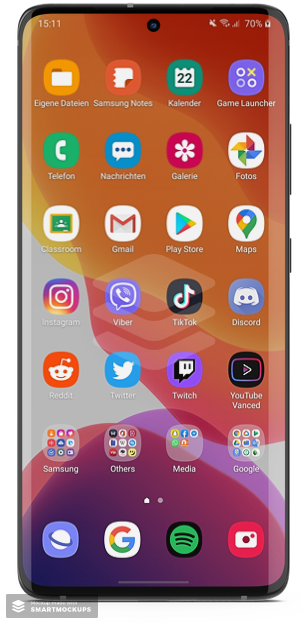
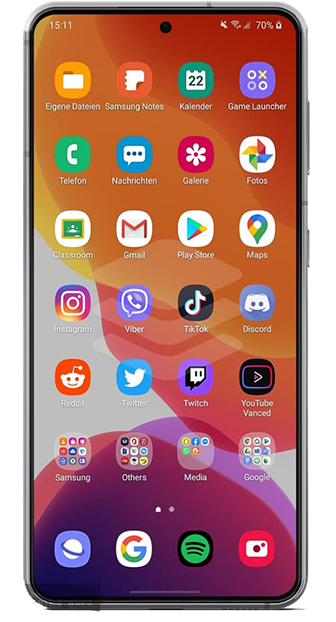
update

diff --git a/index.html b/index.html
@@ -87,7 +87,7 @@
                 <img src="./images/Iphone.png" class="img-feature" alt="" />
               </div>
               <div class="feature-img--item">
-                <img src="./images/Image.png" class="img-feature" alt="" />
+                <img src="./images/Android.png" class="img-feature" alt="" />
               </div>
             </div>
           </div>
